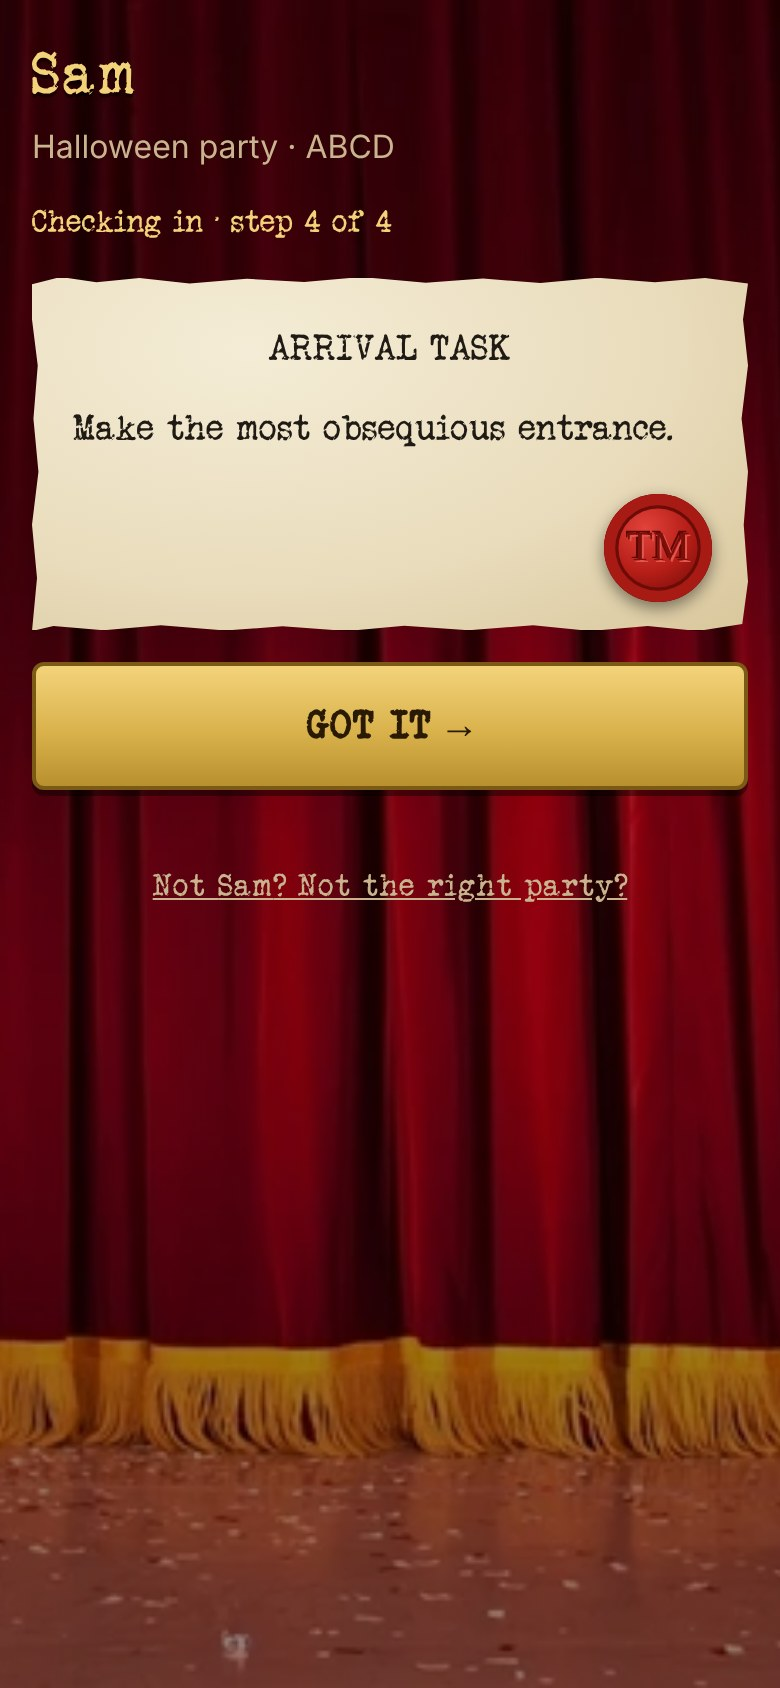
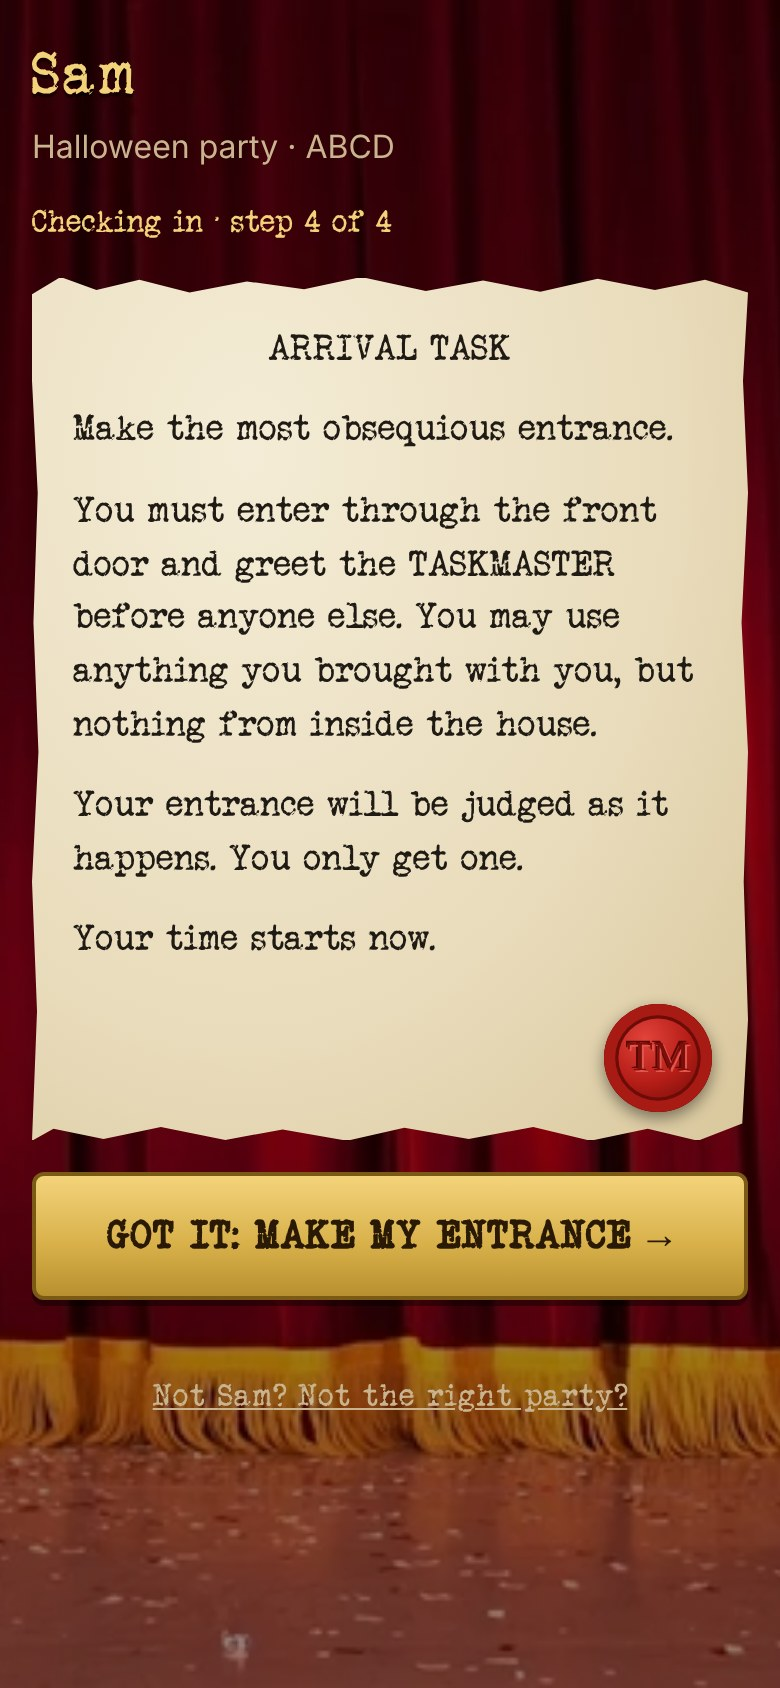
Draft: arrival step button names the entrance; longer task text in the shot
Claude-Session: https://claude.ai/code/session_01Vw8JdSJtQTE8wBxRYwczAW

diff --git a/docs/guest-shots/shots.tsx b/docs/guest-shots/shots.tsx
@@ -86,7 +86,7 @@ function build() {
     t5: { order: 5, game: "noisemaster" },
   };
   for (let i = 6; i <= 8; i++) tasks[`t${i}`] = { order: i, name: `Live task ${i}` };
-  if (shot.startsWith("checkin")) tasks.t0 = { order: 0, name: "Entrance", type: "Arrival", text: "Make the most obsequious entrance." };
+  if (shot.startsWith("checkin")) tasks.t0 = { order: 0, name: "Entrance", type: "Arrival", text: "Make the most obsequious entrance.\n\nYou must enter through the front door and greet the TASKMASTER before anyone else. You may use anything you brought with you, but nothing from inside the house.\n\nYour entrance will be judged as it happens. You only get one.\n\nYour time starts now." };
   // Plan the party shows the lineup to a friend, so its live tasks have real names: the ones played elsewhere tonight.
   if (shot.startsWith("host-plan")) {
     tasks.t6 = { order: 6, name: "Dice tower", type: "Individual", text: "Build the tallest tower out of dice.\n\nYou have exactly 3 minutes. Tallest standing tower wins." };

diff --git a/src/Play.tsx b/src/Play.tsx
@@ -190,7 +190,7 @@ function Guest({ code, uid, session, onLeave }: { code: string; uid: string; ses
         {checkingIn && !rulesToDo && !needsHeadshot && !envelopeDue && arrivalToDo && (
           <>
             <TaskTextCard type={arrival!.type!} text={arrival!.text!} />
-            <button className="big" onClick={() => { const c = { ...checkin!, arrival: false }; saveCheckIn(c); setCheckin(c); }}>Got it →</button>
+            <button className="big" onClick={() => { const c = { ...checkin!, arrival: false }; saveCheckIn(c); setCheckin(c); }}>Got it: make my entrance →</button>
           </>
         )}
         {checkingIn && !rulesToDo && needsHeadshot && <Headshot key="headshot" code={code} uid={uid} id={id!} session={session} />}
